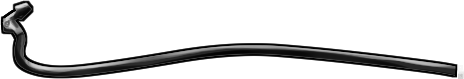
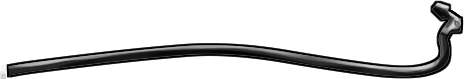
bike polish

Changed region(s): [[0.0, 0.0, 1.0, 1.0]]

diff --git a/src/scenes/bikeScene.js b/src/scenes/bikeScene.js
@@ -496,7 +496,7 @@ var B_PumpTirePane = function(scene)
     self.draw = function(canv)
     {
       canv.context.drawImage(bike_img, 300, 300, 800,450);
-      canv.context.drawImage(hose_img, 100, 400, 200,100);
+      canv.context.drawImage(hose_img, 120, 700, 345,100);
 
       var signx = 100;
       var signy = 50;
@@ -734,10 +734,12 @@ var B_GrabKeysPane = function(scene)
     }
     self.draw = function(canv) //handle drawing keys here too, because of swapping precidence
     {
+      var shakeX = ((Math.random()*2)-1)*5;
+      var shakeY = ((Math.random()*2)-1)*5;
       if(self.grabbed || self.tapped) //draw keys first
         canv.context.drawImage(keys_img,30,200,150,300);
 
-      if(self.tapped) canv.context.drawImage(hand_hit_img,self.x,self.y,self.w,self.h);
+      if(self.tapped) canv.context.drawImage(hand_hit_img,self.x+shakeX,self.y+shakeY,self.w,self.h);
       else if(self.grabbed) canv.context.drawImage(hand_closed_img,self.x,self.y,self.w,self.h);
       else canv.context.drawImage(hand_open_img,self.x,self.y,self.w,self.h);
 
